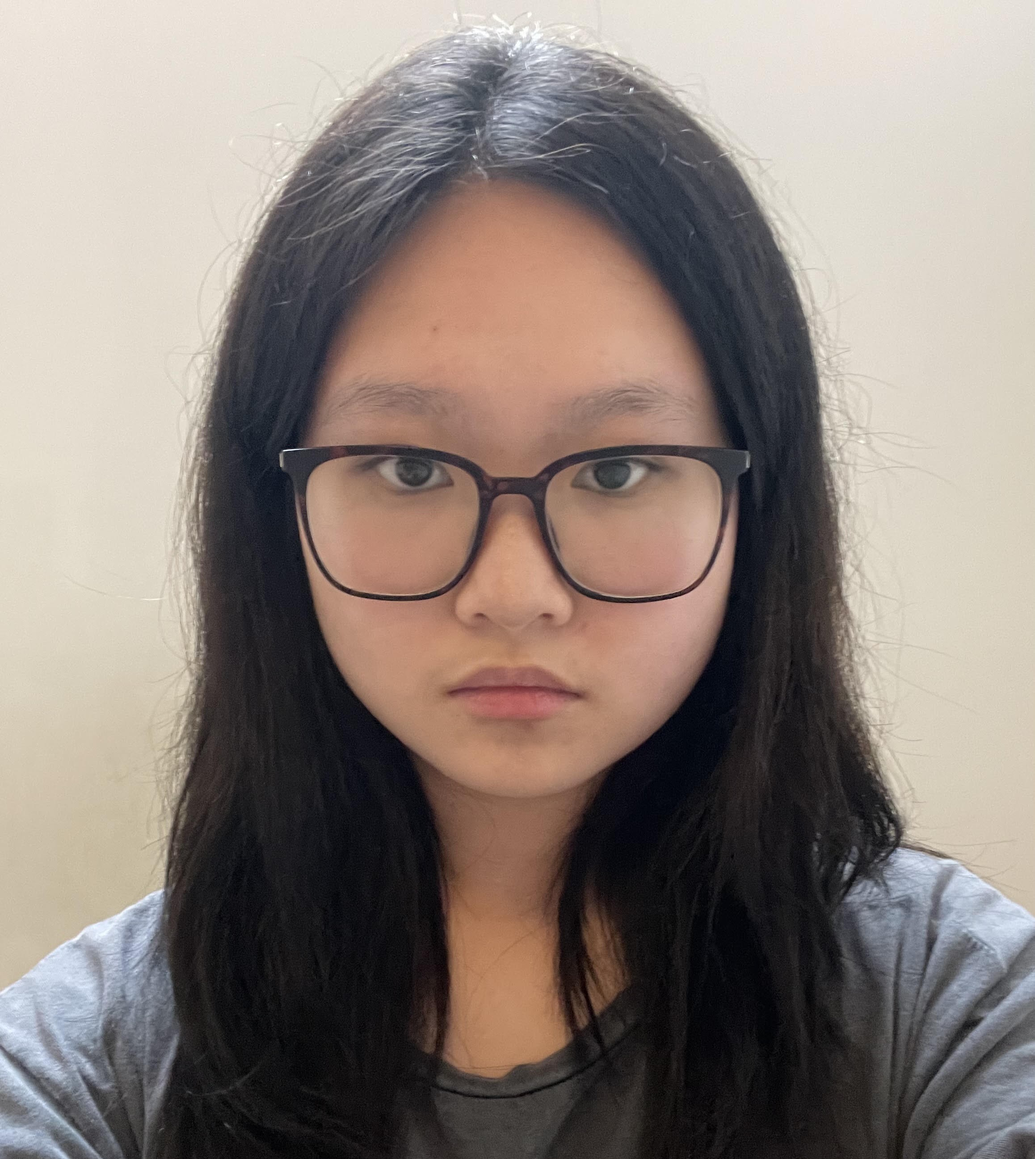
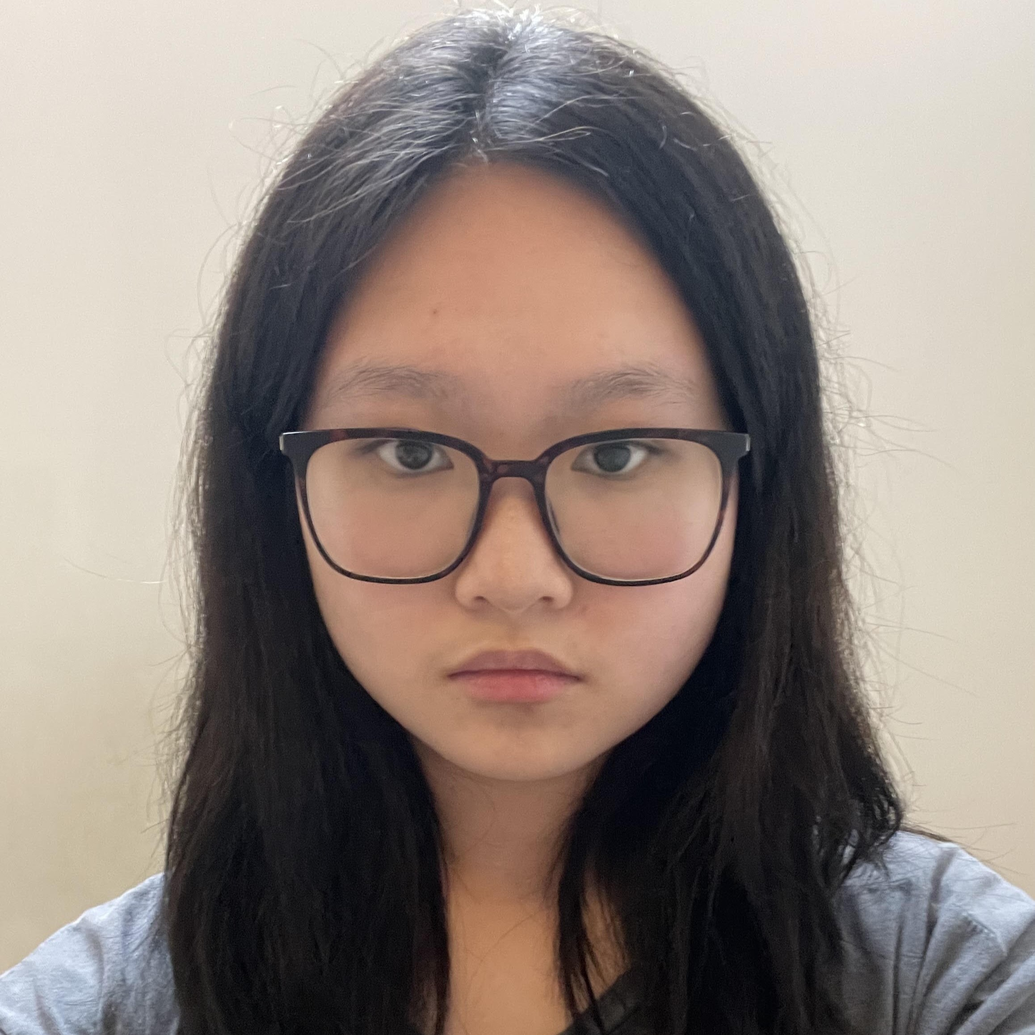
fixed images

diff --git a/content/pages/committee/index.md b/content/pages/committee/index.md
@@ -67,7 +67,7 @@ title: Our Team
 
 <!--  {{% image height="250" src="/pics/members/JodyLiao.jpg" caption="**Jody Liao** <br>Monday Pairing" %}}  -->
 
-{{% image height="250" src="/pics/members/CatherineCheung.jpg" caption="**Catherine Cheung** <br>Webmaster, Pairing" %}}
+{{% image height="250" src="/pics/members/CatherineCheung.jpg" caption="**Catherine Cheung** <br>Webmaster, Pairing <br>" %}}
 
 <!-- {{% image height="250" src="/pics/members/BlakeWang.jpg" caption="**Blake Wang** <br>Monday Pairing" %}} -->
 
